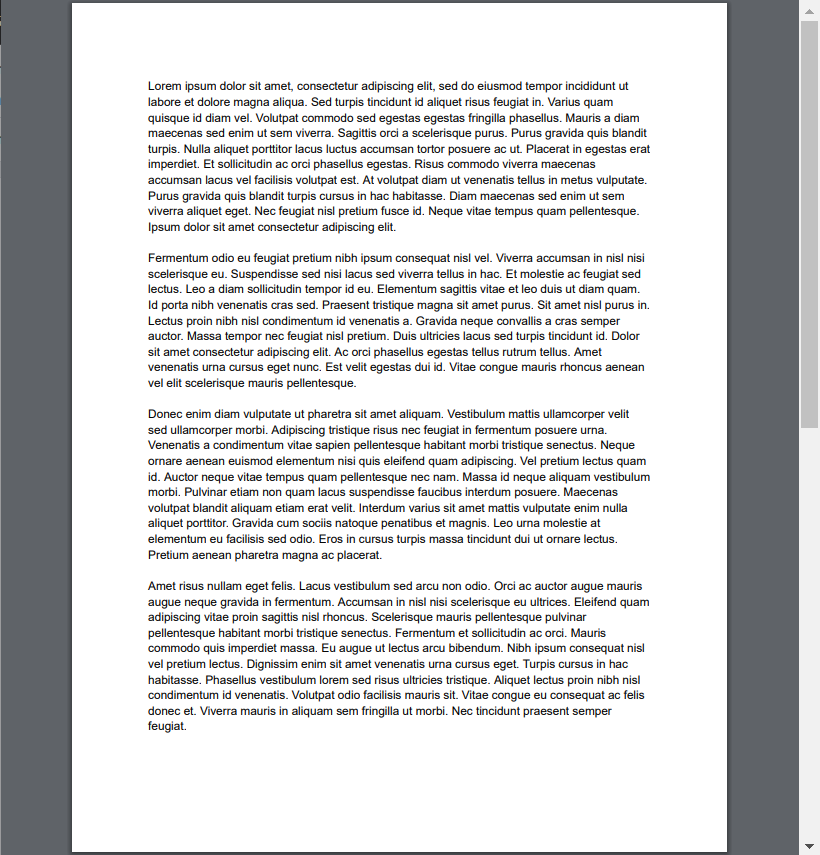
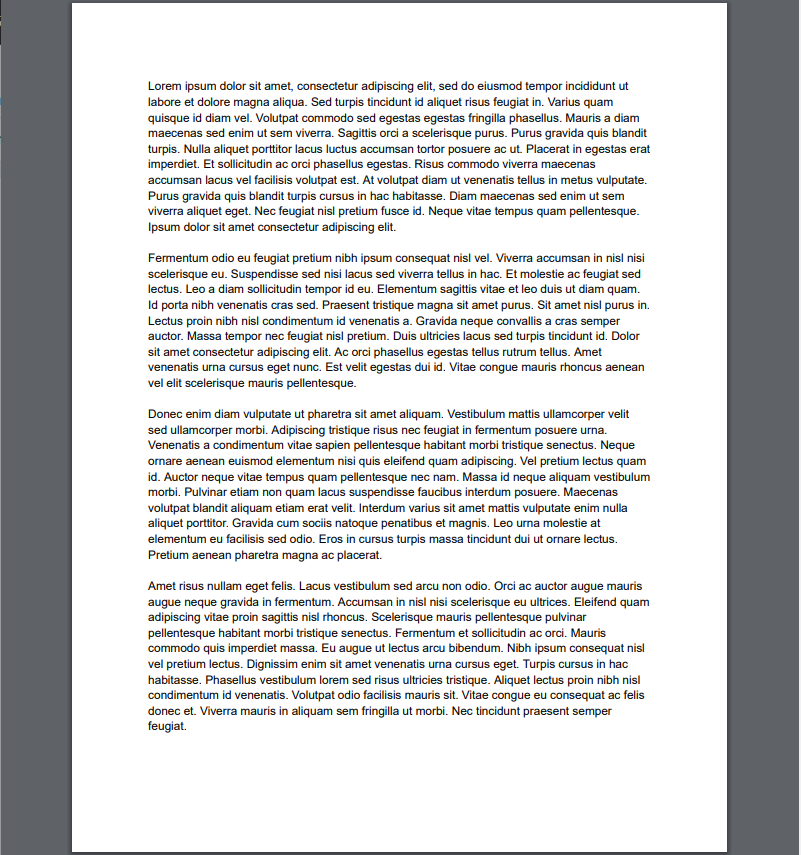
l

Changed region(s): [[0.1561, 0.0912, 0.8115, 0.8819], [0.8739, 0.0, 0.9363, 1.0], [0.9675, 0.0, 0.9988, 1.0]]

diff --git a/PrintPage.java b/PrintPage.java
@@ -4,6 +4,7 @@ import java.util.HashMap;
 
 import javafx.animation.PauseTransition;
 import javafx.application.Application;
+import javafx.beans.value.ChangeListener;
 import javafx.beans.value.ObservableValue;
 import javafx.geometry.Insets;
 import javafx.geometry.Orientation;
@@ -184,20 +185,27 @@ public class PrintPage extends Application
 
     //Print preview
     FileInputStream inputStream = new FileInputStream("images/Capture.PNG");
-    Image image = new Image(inputStream);
-    ImageView printPreview = new ImageView(image);
-    printPreview.setFitHeight(700);
-    printPreview.setFitWidth(600);
+    Image[] images = new Image[2];
+    ImageView[] printPreview = new ImageView[2];
+    Image image1 = images[0] = new Image(inputStream);
+    ImageView pic1 = printPreview[0] = new ImageView(images[0]);
+    inputStream = new FileInputStream("images/Capture2.PNG");
+    Image image2 = images[1] = new Image(inputStream);
+    ImageView pic2 = printPreview[1] = new ImageView(images[1]);
+    //printPreview.setFitHeight(700);
+    //printPreview.setFitWidth(600);
     ScrollBar scroll = new ScrollBar();
     scroll.setMin(0);
     scroll.setOrientation(Orientation.VERTICAL);
     scroll.setPrefHeight(700);
     scroll.setPrefWidth(20);
-    VBox images = new VBox(printPreview);
-    scroll.valueProperty().addListener((ObservableValue<? extends Number> ov, Number old_val, Number new_val) -> {
-      images.setLayoutY(-new_val.doubleValue());
+    VBox imagesVBox = new VBox();
+    scroll.valueProperty().addListener(new ChangeListener<Number>() {
+      public void changed(ObservableValue<? extends Number> ov, Number old_val, Number new_val){
+        imagesVBox.setLayoutY(-new_val.doubleValue());
+      }
     });
-    HBox leftSide = new HBox(images, scroll);
+    HBox leftSide = new HBox(imagesVBox, scroll);
 
     // Pages option
     Label pagesOptionLabel = new Label("Pages");
@@ -348,7 +356,7 @@ public class PrintPage extends Application
     BorderPane root = new BorderPane();
     root.setLeft(leftSide);
     root.setCenter(optionsVBox);
-    root.setAlignment(printPreview, Pos.CENTER);
+    root.setAlignment(imagesVBox, Pos.CENTER);
     root.setAlignment(optionsVBox, Pos.CENTER);
     // Create a scene for the Print Page
     printPageScene = new Scene(root, 1000, 700);
